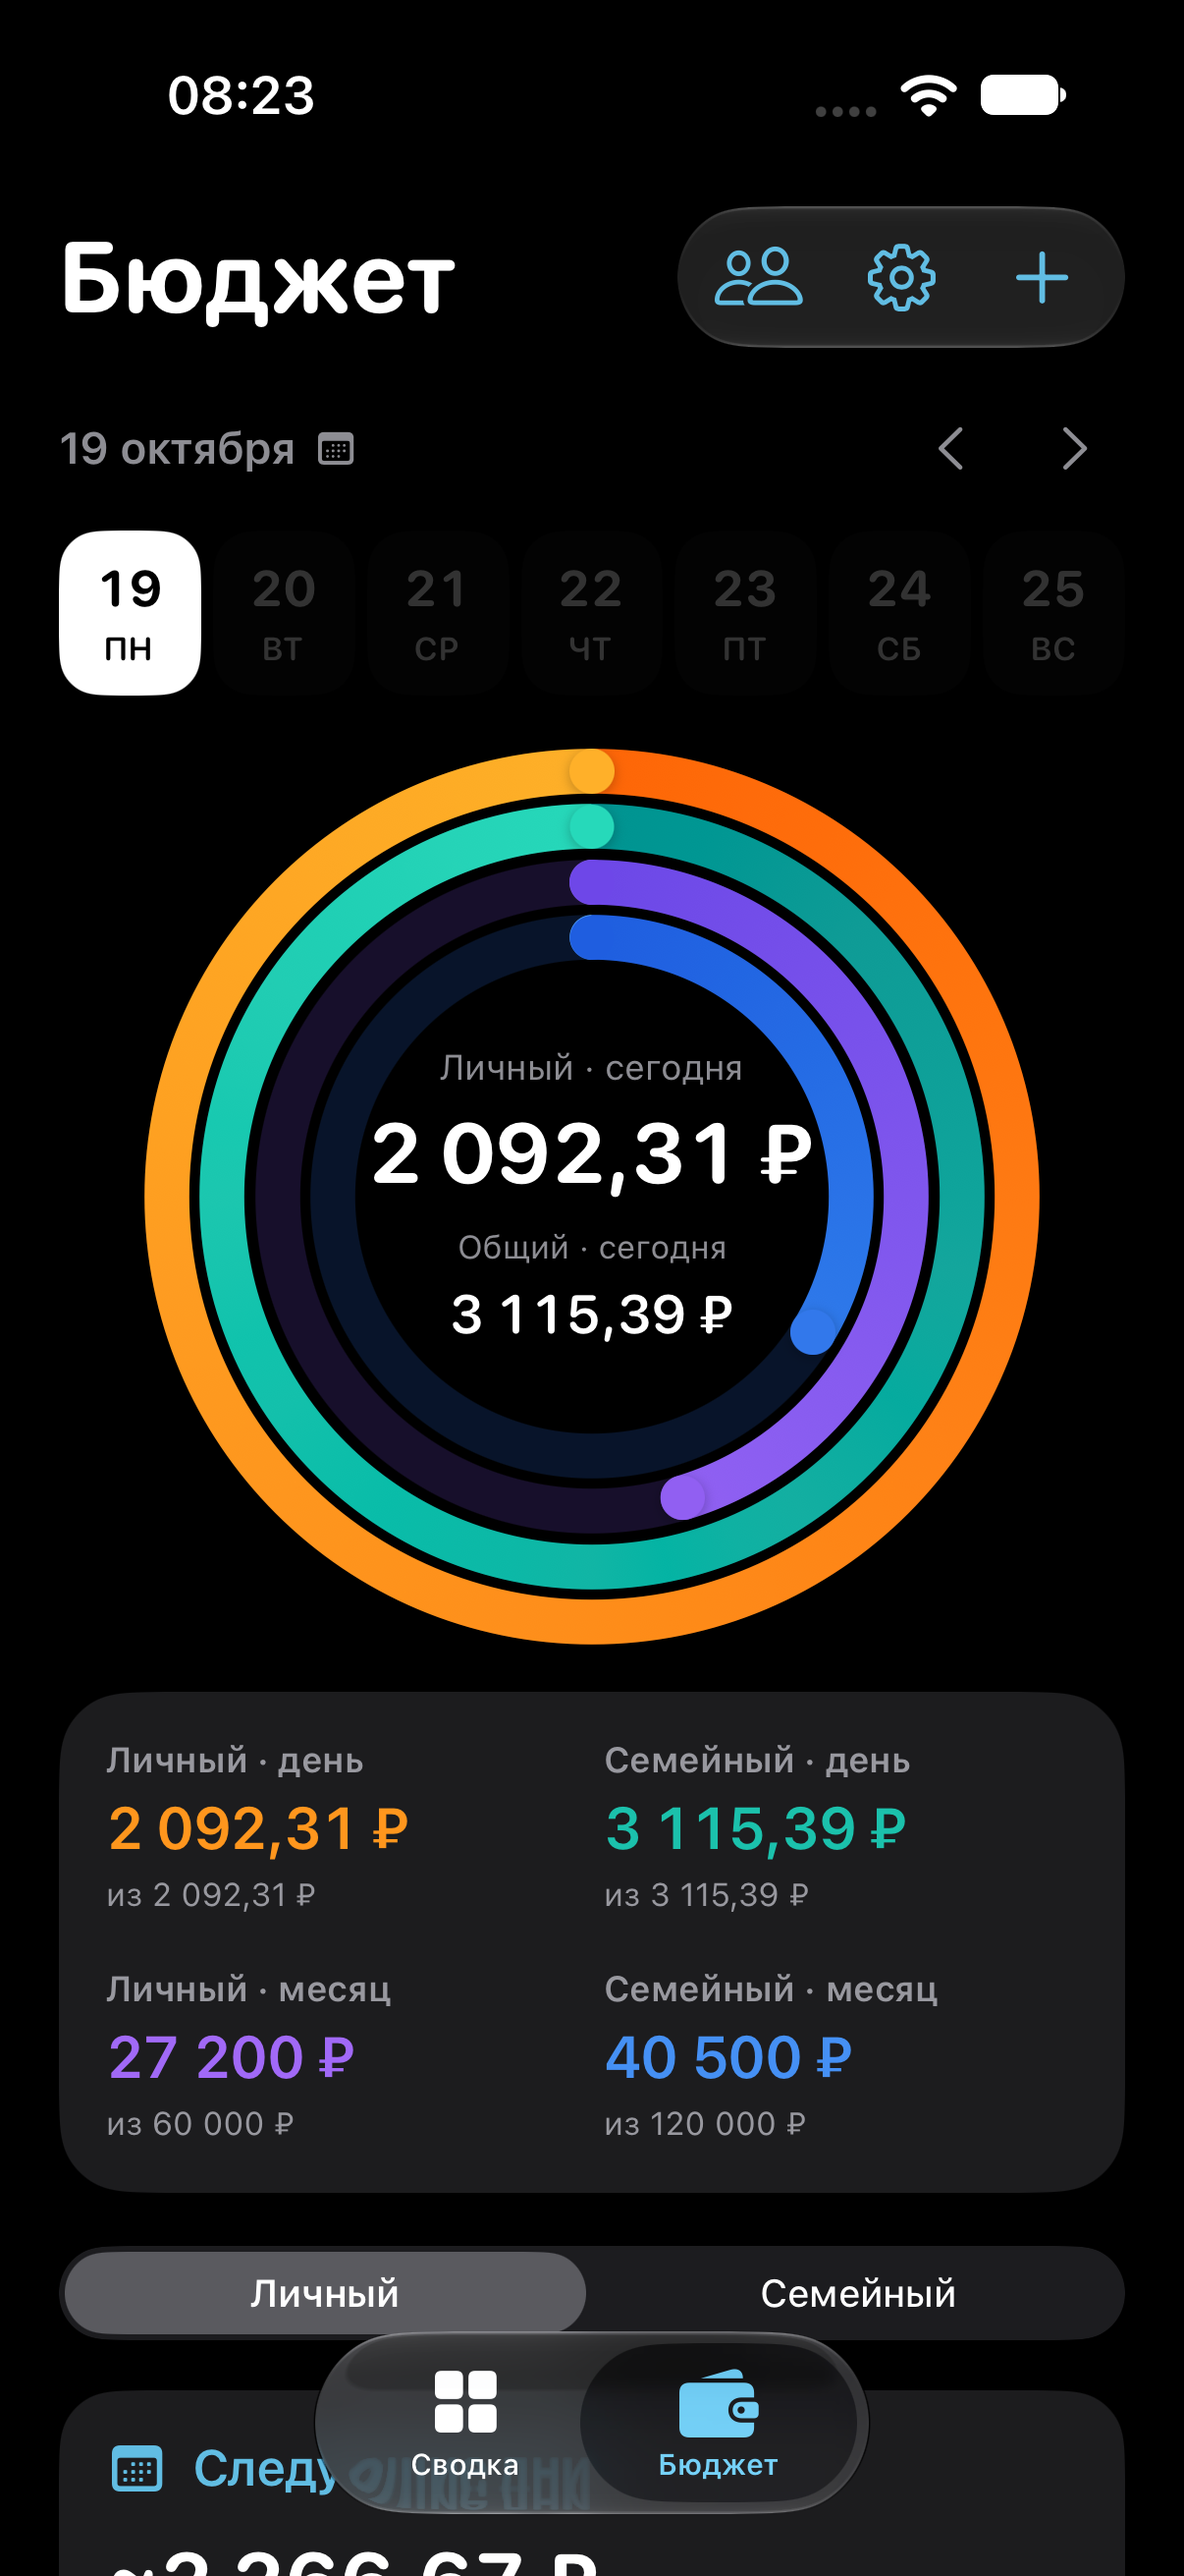
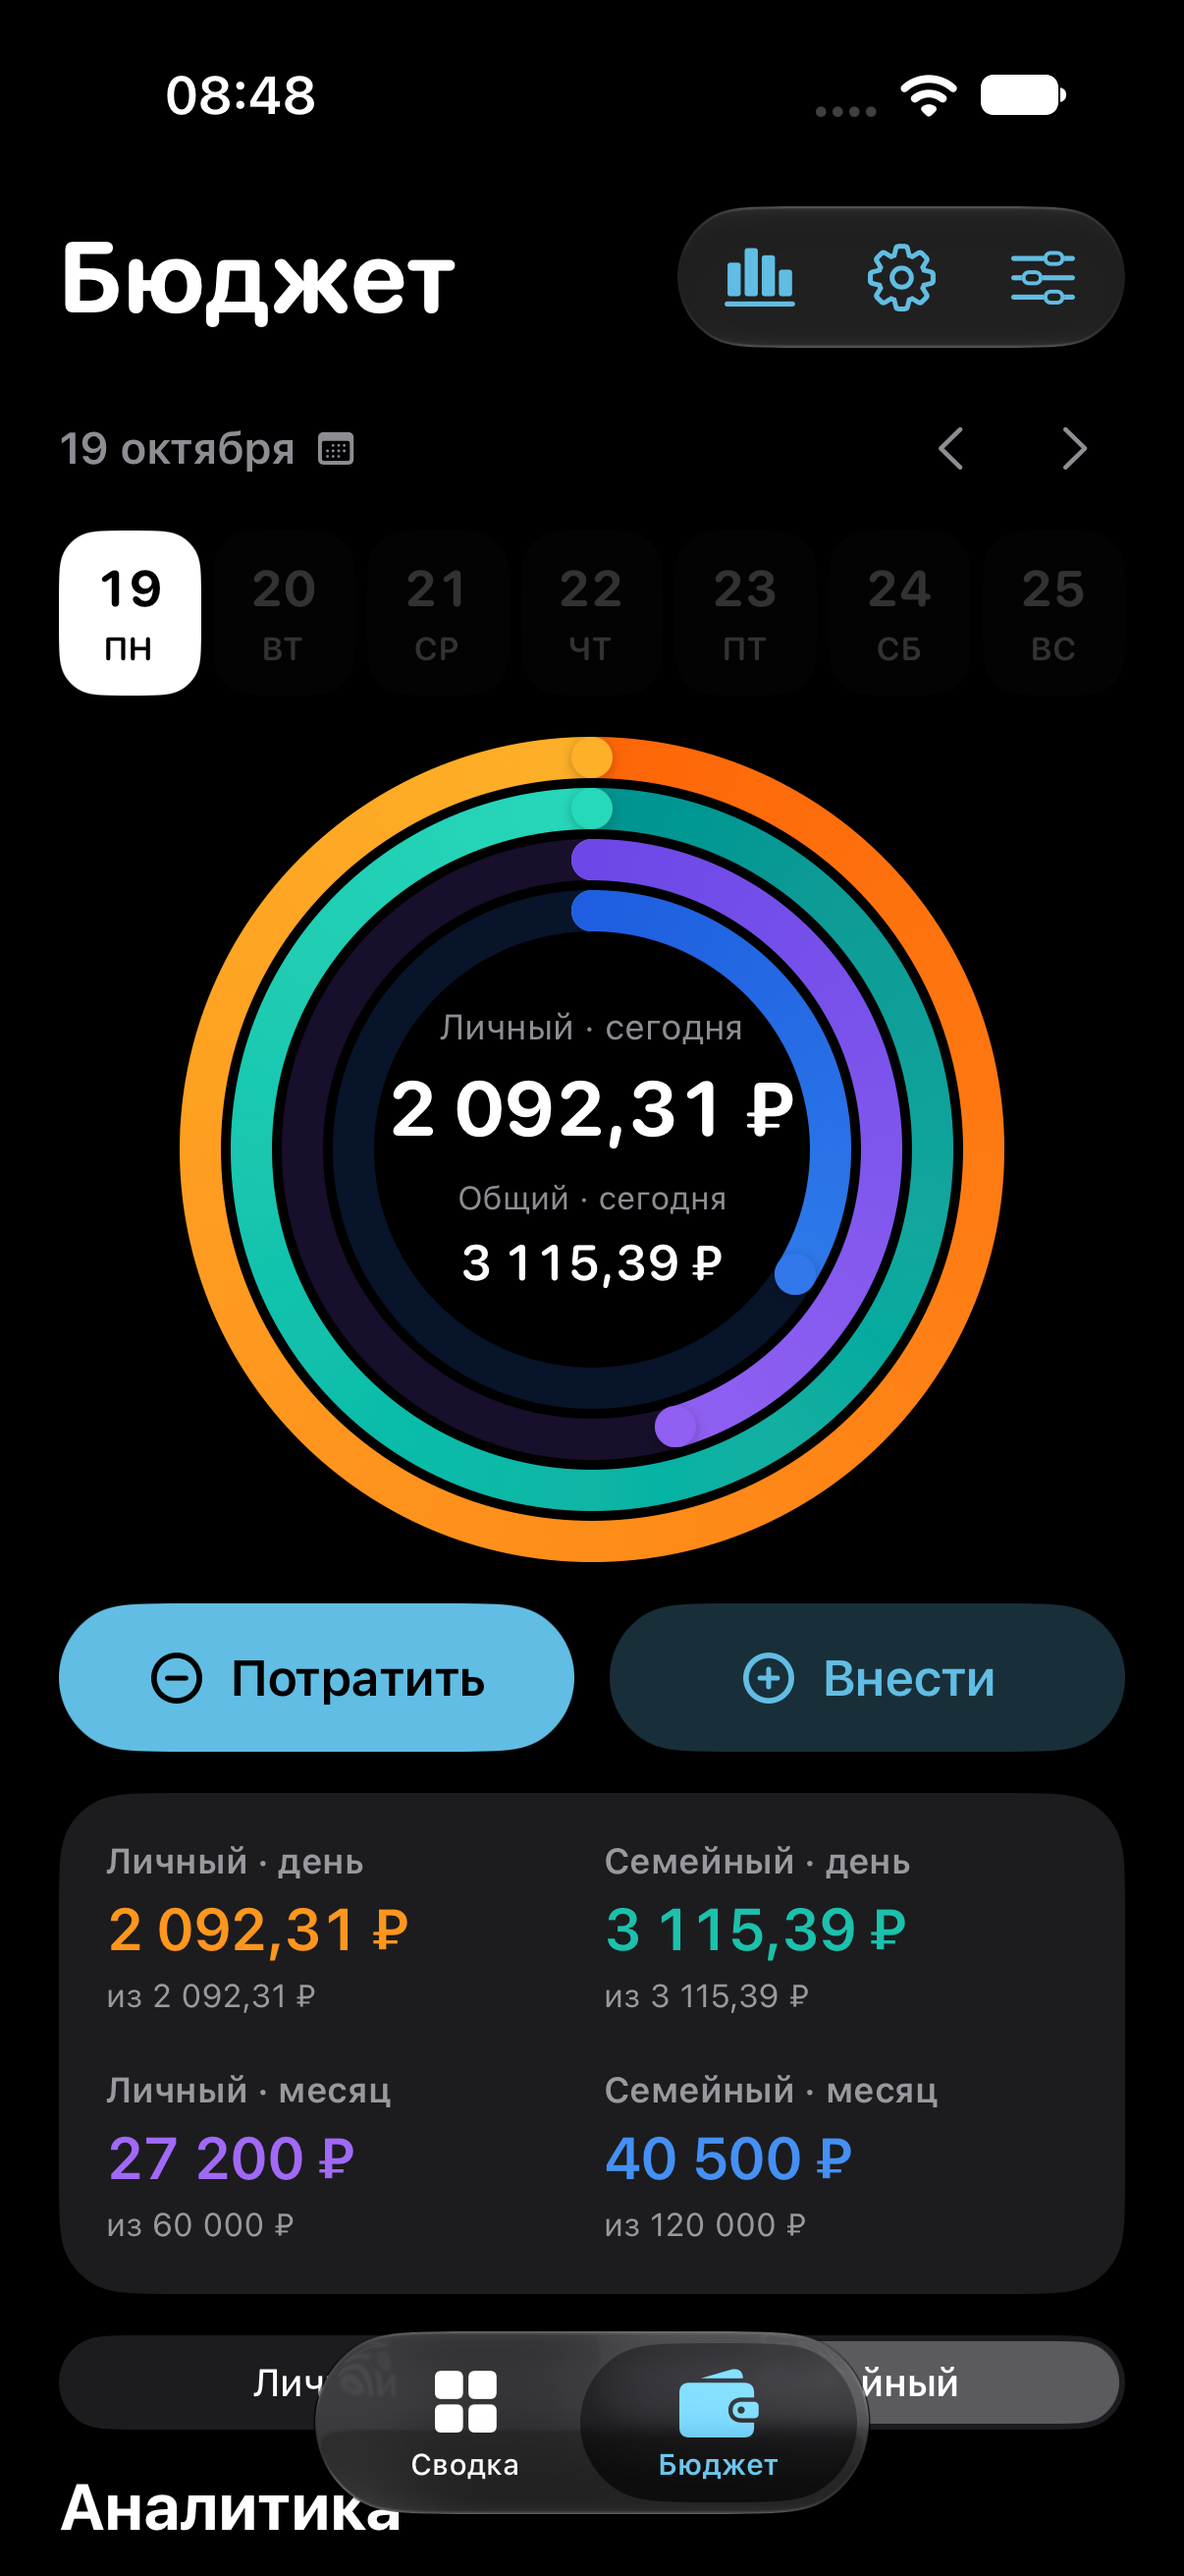
Refresh budget screenshot and visual QA status

diff --git a/docs/PROGRESS.md b/docs/PROGRESS.md
@@ -122,6 +122,6 @@ Decimal-конвертация проверяет переполнение и о
 
 `BudgetAnalytics` агрегирует внесённые записи за день/неделю/месяц, исключает будущее и удалённые операции, учитывает понедельник, границы месяцев и DST. Расходы/возвраты/поступления/переводы в резервы разделены; переводы в цели не создают расход. UI использует Swift Charts и категории в выбранной валюте. Месячные лимиты сохраняются отдельно по scope, без изменения денег и записей; ожидаемое старое значение проверяется против устаревшей формы.
 
-Все 53 теста (36 расчётов и 17 хранения) и Debug/Release/Demo/Cloud прошли. Проверены изоляция и сохранение лимитов, отсутствие новых денег/операций, конфликт, неверный scope, аналитические границы и отрицательный дневной остаток. В симуляторе до блокировки Mac проверены сводка с календарём/семьёй, переход с 17 октября и новые кнопки бюджета. Затем Mac заблокировался: визуальная приёмка диаграмм, форм лимитов и окончательного размера/цветов остаётся незавершённой до разблокировки. Старые снимки помечены как предыдущая проверенная сборка.
+Все 53 теста (36 расчётов и 17 хранения) и Debug/Release/Demo/Cloud прошли. Проверены изоляция и сохранение лимитов, отсутствие новых денег/операций, конфликт, неверный scope, аналитические границы и отрицательный дневной остаток. В симуляторе до блокировки Mac проверены сводка с календарём/семьёй, переход с 17 октября и новые кнопки бюджета. После установки окончательной сборки снимок через simctl подтвердил центрирование колец, контраст кнопки «Потратить» и размещение всех четырёх числовых показателей над плавающим меню на iPhone 18 Pro при обычном размере текста. Обновлён `screenshots/budget-calendar-dark.png`. Инструмент управления Mac продолжает сообщать о блокировке; интерактивная приёмка диаграмм, форм лимитов и красного перерасхода остаётся незавершённой. Остальные снимки помечены как предыдущая проверенная сборка.
 
 Рекомендации и план интеграции обязательных платежей, прогноза до дохода, целей, недельной сверки и корзины — [BUDGET-PRACTICES.md](BUDGET-PRACTICES.md).
